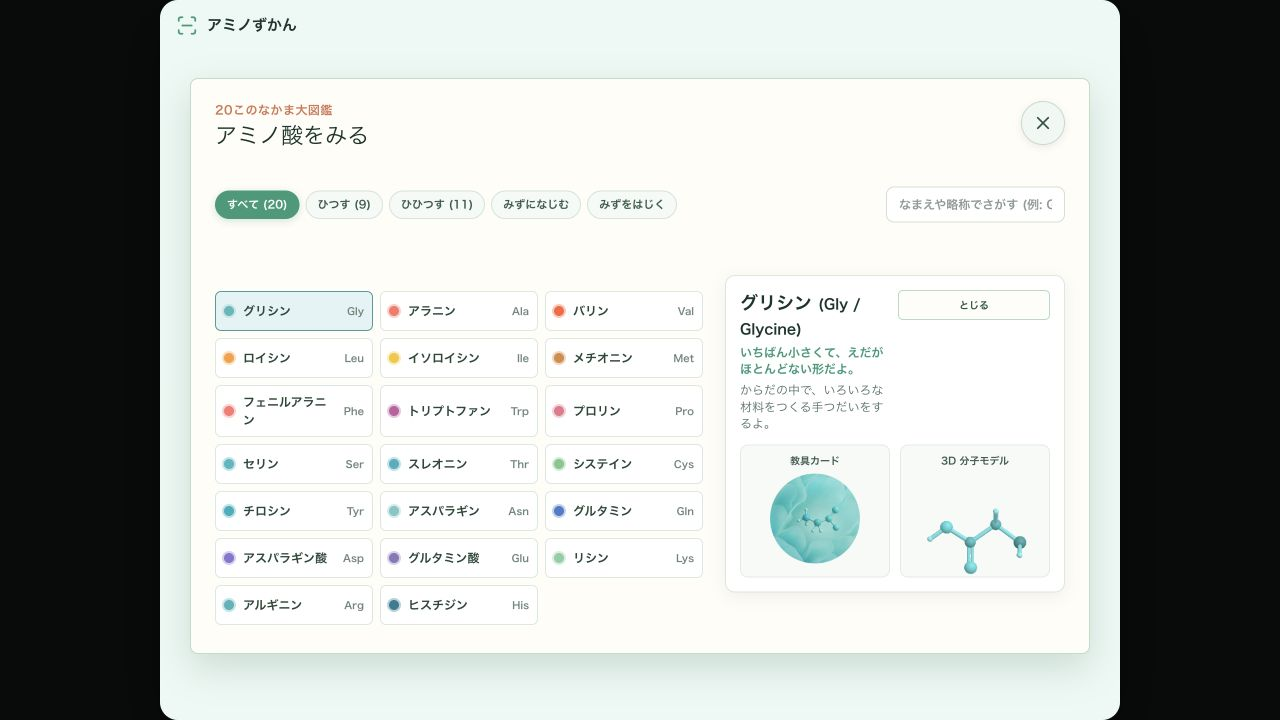
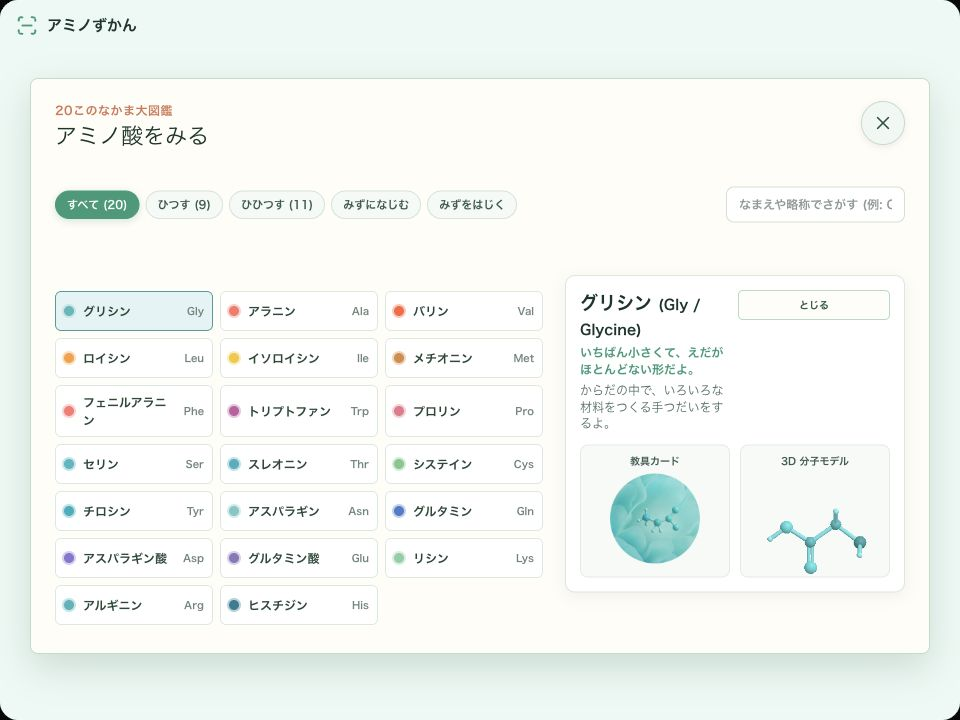
Add interaction and service design projects, TAKI materials and theme-aware image backgrounds

diff --git a/index.html b/index.html
@@ -5,7 +5,7 @@
     <meta charset="UTF-8">
     <meta name="viewport" content="width=device-width, initial-scale=1.0, maximum-scale=1.0, user-scalable=no">
     <title>HEISEI'S PAGE</title>
-    <meta name="portfolio-version" content="20261011.5">
+    <meta name="portfolio-version" content="20261011.6">
     <!-- Favicon (Red Knot Logo) -->
     <link rel="icon" type="image/svg+xml" href="./images/favicon.svg">
     <link rel="preconnect" href="https://fonts.googleapis.com">
@@ -13,7 +13,7 @@
     <link
         href="https://fonts.googleapis.com/css2?family=Inter:wght@300;400;500;600&family=Noto+Sans+JP:wght@300;400;500;600&family=Noto+Sans+SC:wght@300;400;500;600&display=swap"
         rel="stylesheet">
-    <link rel="stylesheet" href="style.css?v=20261011.5">
+    <link rel="stylesheet" href="style.css?v=20261011.6">
 </head>
 
 <body class="light-mode">
@@ -609,9 +609,9 @@
         <p class="text-dark-gray text-xs font-light tracking-wide">&copy; 2026 HEISEI DESIGN. All rights reserved.</p>
     </footer>
 
-    <script src="portfolio-translations.js?v=20261011.5"></script>
-    <script src="portfolio-gallery.js?v=20261011.5"></script>
-    <script src="script.js?v=20261011.5"></script>
+    <script src="portfolio-translations.js?v=20261011.6"></script>
+    <script src="portfolio-gallery.js?v=20261011.6"></script>
+    <script src="script.js?v=20261011.6"></script>
 </body>
 
 </html>

diff --git a/style.css b/style.css
@@ -913,7 +913,7 @@ body.project-dialog-open {
 .project-media .work-image {
   aspect-ratio: auto;
   height: min(56vh, 620px);
-    background: var(--project-image-bg);
+  background: var(--project-image-bg);
 }
 
 .project-media .work-image img {
@@ -939,7 +939,7 @@ body.project-dialog-open {
 .category-cover img.lab-logo-cover {
   object-fit: contain;
   padding: 12%;
-    background: var(--project-image-bg);
+  background: var(--project-image-bg);
 }
 
 @media (min-width: 769px) {
